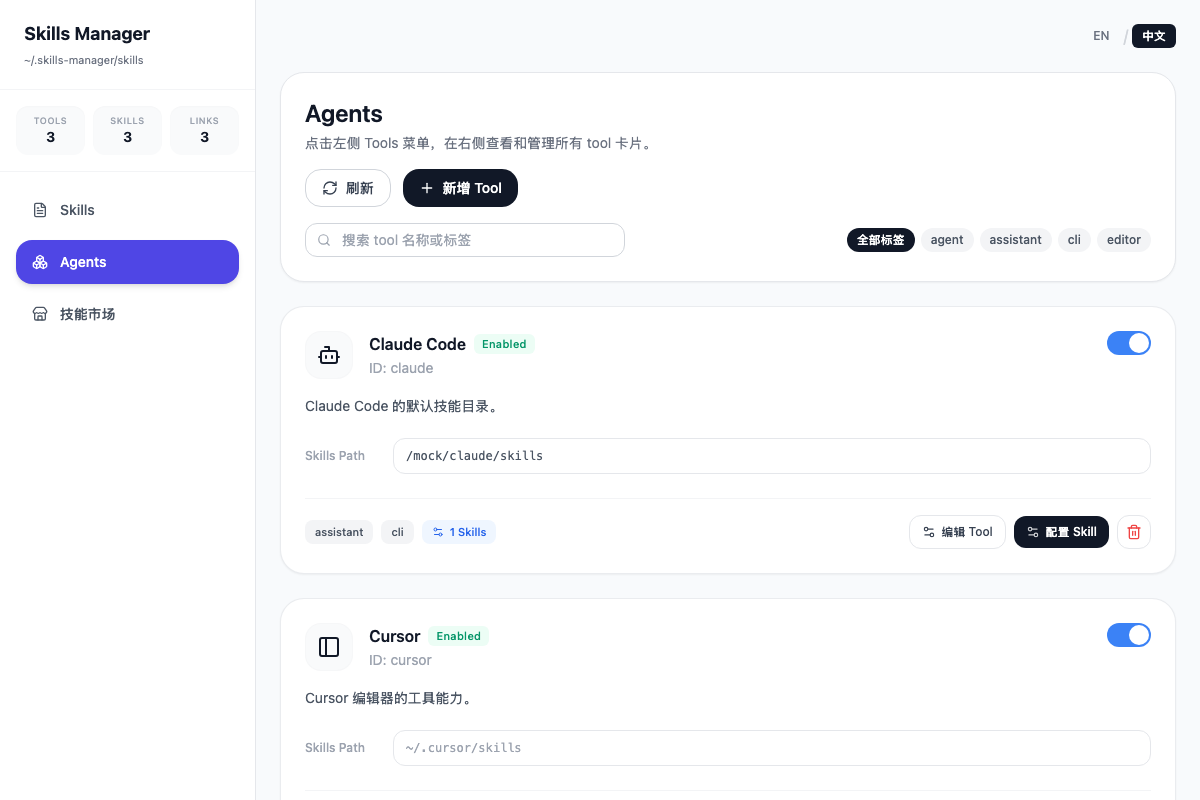
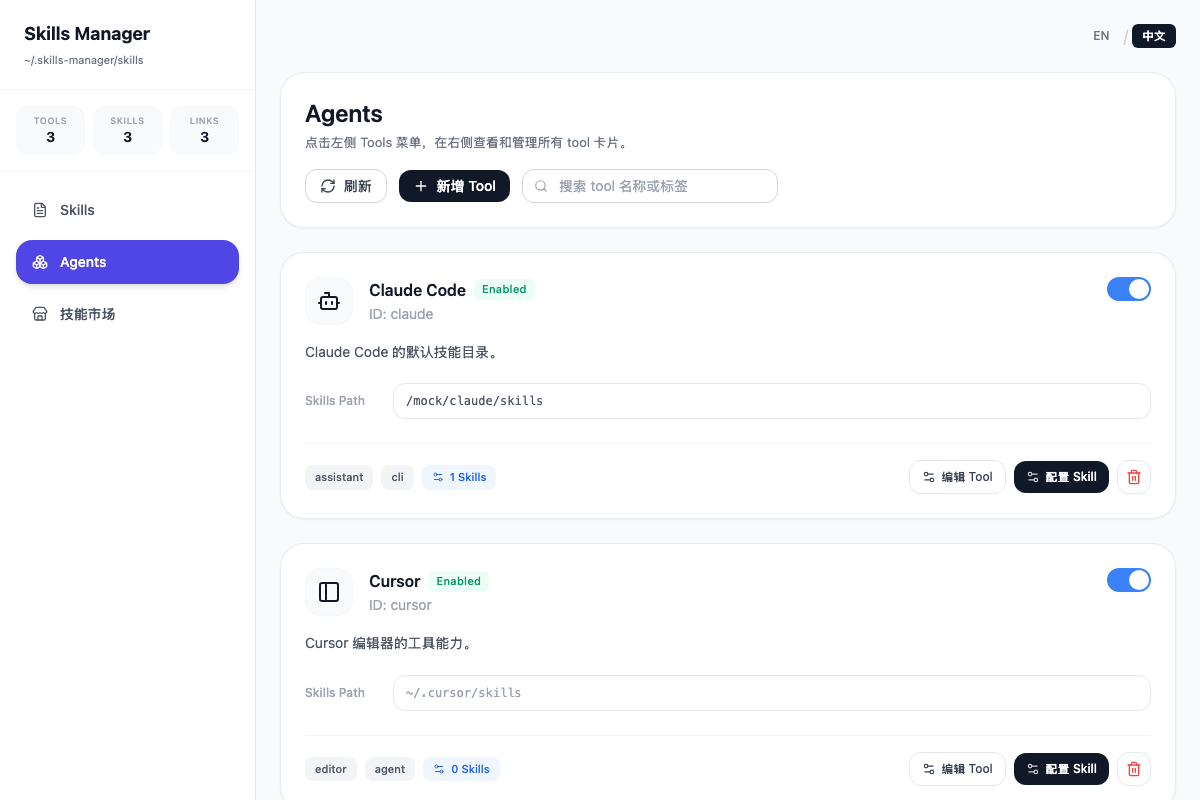
style: remove tags filter and refine header layout in Agents view

diff --git a/src/views/ToolsView.tsx b/src/views/ToolsView.tsx
@@ -213,76 +213,56 @@ export function ToolsView({
 
   return (
     <div className="space-y-6">
-      <div className="flex flex-col gap-4 rounded-3xl border border-gray-200 bg-white p-6 shadow-sm">
-        <div className="flex flex-col gap-4 xl:flex-row xl:items-center xl:justify-between">
-          <div>
-            <h1 className="text-2xl font-semibold text-gray-900">{labels.tools}</h1>
-            <p className="mt-1 text-sm text-gray-500">{labels.toolsHint}</p>
-          </div>
-          <div className="flex flex-col gap-3 sm:flex-row">
-            <button
-              onClick={async () => {
-                setRefreshing(true);
-                try {
-                  await onRefresh();
-                } finally {
-                  setRefreshing(false);
-                }
-              }}
-              disabled={refreshing}
-              className="flex items-center justify-center gap-2 rounded-2xl border border-gray-300 bg-white px-4 py-2 text-sm font-medium text-gray-700 transition hover:bg-gray-100 disabled:opacity-50"
-            >
-              <RefreshCw className={`h-4 w-4 ${refreshing ? 'animate-spin' : ''}`} />
-              {labels.refresh}
-            </button>
-            <button
-              onClick={() =>
-                setToolModal({
-                  id: "",
-                  tool: {
-                    name: "",
-                    description: "",
-                    icon: "Bot",
-                    tags: [],
-                    config_path: "",
-                    target_dir: "",
-                    enabled: true,
-                  },
-                })
-              }
-              disabled={isViewer}
-              className="flex items-center justify-center gap-2 rounded-2xl bg-gray-900 px-4 py-2 text-sm font-medium text-white transition hover:bg-gray-800 disabled:cursor-not-allowed disabled:opacity-50"
-            >
-              <Plus className="h-4 w-4" />
-              {labels.addTool}
-            </button>
-          </div>
+      <div className="flex flex-col gap-4 rounded-3xl border border-gray-200/80 bg-white p-6 shadow-sm xl:flex-row xl:items-center xl:justify-between">
+        <div>
+          <h1 className="text-2xl font-semibold text-gray-900">{labels.tools}</h1>
+          <p className="mt-1 text-[13px] text-gray-500">{labels.toolsHint}</p>
         </div>
-
-        <div className="flex flex-col gap-4 lg:flex-row lg:items-center lg:justify-between">
-          <div className="relative w-full lg:max-w-xs">
+        <div className="flex flex-col gap-3 sm:flex-row sm:items-center">
+          <button
+            onClick={async () => {
+              setRefreshing(true);
+              try {
+                await onRefresh();
+              } finally {
+                setRefreshing(false);
+              }
+            }}
+            disabled={refreshing}
+            className="flex items-center justify-center gap-2 rounded-xl border border-gray-300 bg-white px-3.5 py-1.5 text-sm font-medium text-gray-700 transition hover:bg-gray-50 hover:text-gray-900 disabled:opacity-50"
+          >
+            <RefreshCw className={`h-4 w-4 ${refreshing ? 'animate-spin' : ''}`} />
+            {labels.refresh}
+          </button>
+          <button
+            onClick={() =>
+              setToolModal({
+                id: "",
+                tool: {
+                  name: "",
+                  description: "",
+                  icon: "Bot",
+                  tags: [],
+                  config_path: "",
+                  target_dir: "",
+                  enabled: true,
+                },
+              })
+            }
+            disabled={isViewer}
+            className="flex items-center justify-center gap-2 rounded-xl bg-gray-900 px-3.5 py-1.5 text-sm font-medium text-white transition hover:bg-gray-800 disabled:cursor-not-allowed disabled:opacity-50"
+          >
+            <Plus className="h-4 w-4" />
+            {labels.addTool}
+          </button>
+          <div className="relative w-full sm:w-64">
             <Search className="pointer-events-none absolute left-3 top-1/2 h-3.5 w-3.5 -translate-y-1/2 text-gray-400" />
             <input
               value={search}
               onChange={(event) => setSearch(event.target.value)}
               placeholder={labels.searchTools}
-              className="w-full rounded-xl border border-gray-300 py-1.5 pl-9 pr-3 text-sm outline-none focus:border-blue-500 focus:ring-1 focus:ring-blue-500"
+              className="w-full rounded-xl border border-gray-300 py-1.5 pl-9 pr-3 text-sm outline-none transition-colors focus:border-blue-500 focus:ring-1 focus:ring-blue-500"
             />
-          </div>
-          <div className="flex flex-wrap gap-1.5">
-            {tagOptions.map((tag) => (
-              <button
-                key={tag}
-                onClick={() => setActiveTag(tag)}
-                className={`rounded-full px-2.5 py-1 text-xs font-medium transition ${
-                  activeTag === tag
-                    ? "bg-gray-900 text-white"
-                    : "bg-gray-100 text-gray-600 hover:bg-gray-200"
-                }`}
-              >
-                {tag === "all" ? labels.allTags : tag}
-              </button>
-            ))}
           </div>
         </div>
       </div>
